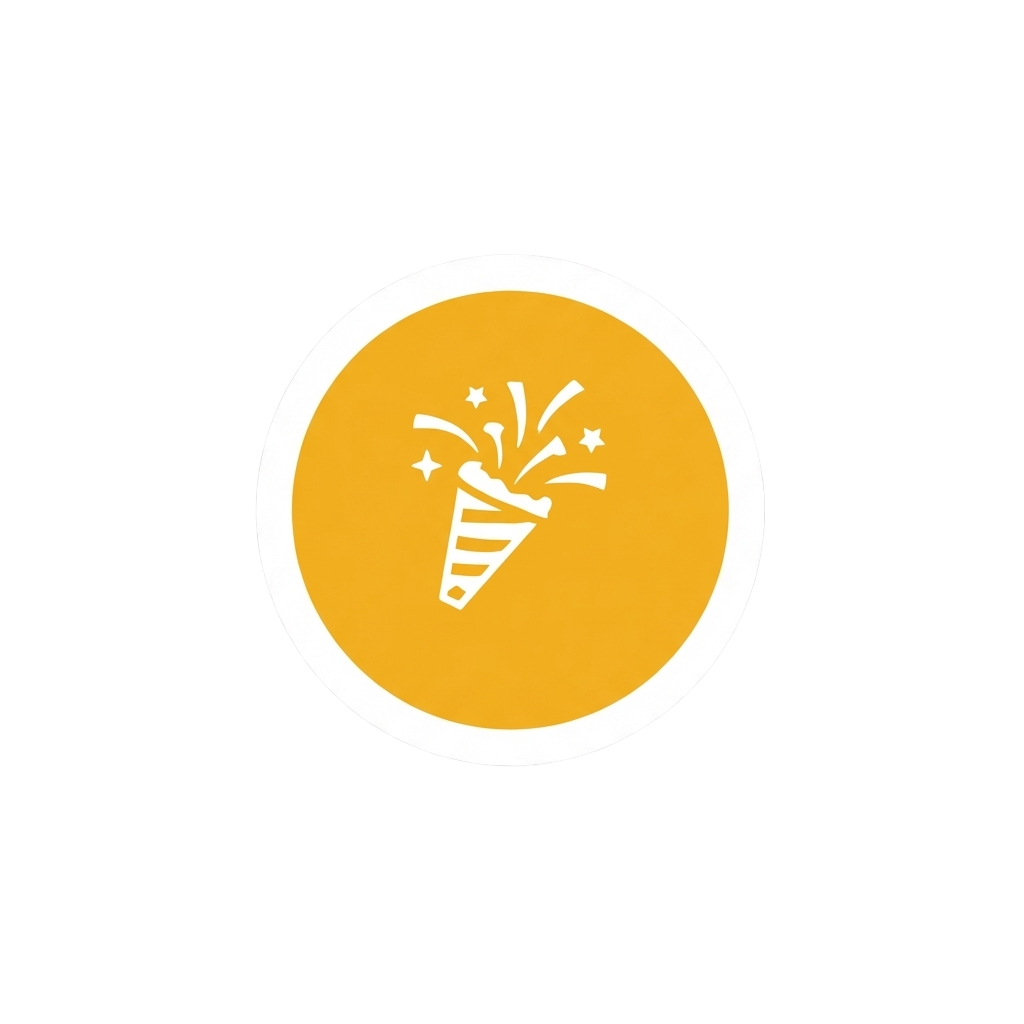
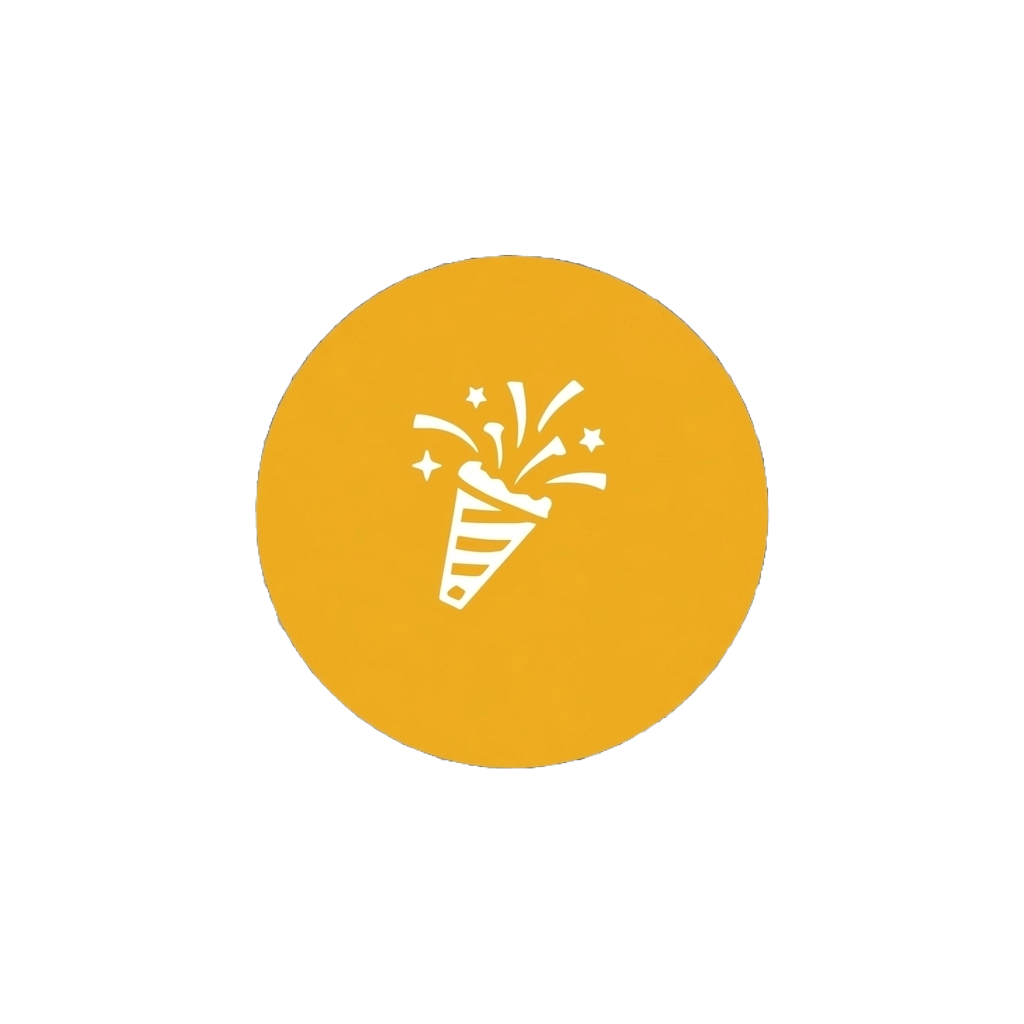
Feat: 이 장소로 향하기 버튼 이 장소로 향하기 버튼을 누르면 길찾기 페이지로 이동 마커 흰색 태두리 삭제 todo가 없을때 AttractionMapSearchView.vue를 로딩할때 내 위치로 설정

Changed region(s): [[0.25, 0.25, 0.75, 0.75]]

diff --git a/src/views/attraction/AttractionMapSearchView.vue b/src/views/attraction/AttractionMapSearchView.vue
@@ -45,6 +45,19 @@
         </KakaoMapCustomOverlay>
 
 
+
+        <!-- Current Location Marker -->
+        <KakaoMapMarker 
+          v-if="userLocation"
+          :lat="userLocation.lat" 
+          :lng="userLocation.lng"
+          :image="{
+            imageSrc: markerCurrent,
+            imageWidth: 40,
+            imageHeight: 40
+          }"
+        />
+
       </KakaoMap>
     </div>
 
@@ -65,6 +78,14 @@
 
 
     </div>
+
+    <!-- Clear Map Button (Bottom Left) -->
+    <!-- Clear Map Button (Bottom Left) -->
+    <button v-if="results.length > 0" class="clear-map-btn" @click="clearMap" title="지도 정리">
+        <svg width="24" height="24" viewBox="0 0 24 24" fill="none" xmlns="http://www.w3.org/2000/svg">
+            <path d="M15.1186 3.00344C15.9329 2.18907 17.2533 2.18907 18.0676 3.00344L20.9964 5.93223C21.8108 6.7466 21.8108 8.06704 20.9964 8.88141L11.558 18.3198C11.5165 18.3614 11.4673 18.3944 11.4132 18.4168L7.87868 19.8814C7.45263 20.058 6.96984 19.8971 6.75736 19.5L6.38699 18.8077L4.69239 20.5023C4.30186 20.8929 3.6687 20.8929 3.27817 20.5023C2.88765 20.1118 2.88765 19.4786 3.27817 19.0881L4.97277 17.3935L4.5 16.5103C4.28751 16.1132 4.45934 15.6179 4.88141 15.4213L6.346 11.8868C6.36845 11.8327 6.40141 11.7835 6.44299 11.7419L15.1186 3.00344ZM16.5932 4.47805L7.91761 13.1537L7.2005 14.8841L9.11579 16.7994L10.8462 16.0823L19.5218 7.40669L16.5932 4.47805Z" fill="#3b82f6"/>
+        </svg>
+    </button>
 
     <!-- Load More Button -->
     <div class="load-more-container" v-if="hasSearched && hasMore && results.length > 0">
@@ -97,11 +118,13 @@
 </template>
 
 <script setup>
-import { ref, onMounted, onUnmounted, watch, computed } from 'vue';
+import { ref, onMounted, onUnmounted, watch, computed, nextTick } from 'vue';
 import { useRoute, useRouter } from 'vue-router';
 import { KakaoMap, KakaoMapCustomOverlay, KakaoMapMarker } from 'vue3-kakao-maps';
 import { attractionApi } from '@/axios/attraction';
 import { usePlanStore } from '@/stores/plan';
+import { useLocationStore } from '@/stores/location';
+import { storeToRefs } from 'pinia';
 import CategoryFilter from '@/components/main/CategoryFilter.vue';
 import PlaceDetailSheet from '@/components/attraction/PlaceDetailSheet.vue';
 
@@ -113,6 +136,7 @@ import markerShopping from '@/assets/markers/marker_shopping.png'
 import markerLeports from '@/assets/markers/marker_leports.png'
 import markerFestival from '@/assets/markers/marker_festival.png'
 import markerCourse from '@/assets/markers/marker_course.png'
+import markerCurrent from '@/assets/markers/marker_current.png'
 
 const props = defineProps({
     existingItems: {
@@ -142,6 +166,8 @@ const emit = defineEmits(['close', 'add-item']);
 const route = useRoute();
 const router = useRouter(); 
 const planStore = usePlanStore();
+const locationStore = useLocationStore();
+const { location: userLocation } = storeToRefs(locationStore);
 
 const searchRadius = ref(1000); // Default 1km
 const selectedCategories = ref([]);
@@ -183,6 +209,22 @@ const fitBoundsToExisting = () => {
   }
 };
 
+const fitBoundsToResults = () => {
+  if (mapInstance.value && results.value.length > 0) {
+    const bounds = new window.kakao.maps.LatLngBounds();
+    results.value.forEach(place => {
+        if (place.latitude && place.longitude) {
+            bounds.extend(new window.kakao.maps.LatLng(Number(place.latitude), Number(place.longitude)));
+        }
+    });
+    // Optional: Include current location in bounds so user sees where they are relative to results
+    if (userLocation.value) {
+        bounds.extend(new window.kakao.maps.LatLng(userLocation.value.lat, userLocation.value.lng));
+    }
+    mapInstance.value.setBounds(bounds);
+  }
+};
+
 const onLoadKakaoMap = (map) => {
   mapInstance.value = map;
   
@@ -199,8 +241,29 @@ const onLoadKakaoMap = (map) => {
   if (existingPlanItems.value.length > 0) {
       fitBoundsToExisting();
   } else {
-      // If no items to fit, trigger initial search at default center
-      handleSearch();
+      // If no items, try to fetch current location and move there
+      locationStore.fetchCurrentLocation().then(async (loc) => {
+          if (map) {
+              const moveLatLon = new window.kakao.maps.LatLng(loc.lat, loc.lng);
+              map.setCenter(moveLatLon);
+              // Also update center ref so search uses it
+              center.value = { lat: loc.lat, lng: loc.lng };
+              
+              await handleSearch(); // Search around new location
+              
+              // Use nextTick to ensure DOM is ready, then fit bounds
+              nextTick(() => {
+                  setTimeout(() => {
+                    console.log("Calling fitBoundsToResults with", results.value.length, "items");
+                    fitBoundsToResults(); 
+                  }, 200); // Slightly longer delay to be safe
+              });
+          }
+      }).catch((err) => {
+          console.error("Location fetch failed:", err);
+          // Fallback if location fails
+          handleSearch();
+      });
   }
 };
 
@@ -232,6 +295,12 @@ watch(searchRadius, () => {
 
 const goBack = () => {
   emit('close');
+};
+
+const clearMap = () => {
+    results.value = [];
+    selectedPlace.value = null;
+    hasSearched.value = false; // Reset search state
 };
 
 const onSelectCategory = (categories) => {
@@ -799,6 +868,37 @@ const toLocalISOString = (date) => {
 .custom-add-btn:hover {
     background: #0081d6;
 }
+
+.clear-map-btn {
+    position: absolute;
+    bottom: 30px;
+    left: 20px;
+    width: 56px;
+    height: 56px;
+    border-radius: 50%;
+    background: white;
+    border: none;
+    box-shadow: 0 4px 12px rgba(0, 0, 0, 0.2);
+    display: flex;
+    align-items: center;
+    justify-content: center;
+    z-index: 100;
+    cursor: pointer;
+    transition: transform 0.2s, background-color 0.2s;
+}
+
+.clear-map-btn:hover {
+    transform: translateY(-2px);
+    background-color: #f9f9f9;
+}
+
+.clear-map-btn:active {
+    transform: scale(0.95);
+    background-color: #f5f5f5;
+}
+
+
+
 
 .modal-overlay {
   position: fixed;

diff --git a/src/components/attraction/PlaceActionButtons.vue b/src/components/attraction/PlaceActionButtons.vue
@@ -1,6 +1,6 @@
 <template>
   <div class="action-buttons">
-    <button class="primary-btn">
+    <button class="primary-btn" @click="handleDirections">
       <svg width="20" height="20" viewBox="0 0 24 24" fill="none" xmlns="http://www.w3.org/2000/svg">
         <path d="M22 2L11 13M22 2L15 22L11 13M11 13L2 9L22 2" stroke="white" stroke-width="2" stroke-linecap="round"
           stroke-linejoin="round" />
@@ -44,6 +44,45 @@ const showThemeModal = ref(false);
 
 const handleAiPlanRequest = () => {
   showThemeModal.value = true;
+};
+
+const handleDirections = () => {
+  if (!props.place) return;
+
+  // Coordinate handling: check for common field names
+  // TourAPI usually uses mapy (lat) and mapx (lng)
+  // Our DB might use latitude/longitude
+  const lat = props.place.latitude || props.place.lat || props.place.mapy;
+  const lng = props.place.longitude || props.place.lng || props.place.mapx;
+  const name = props.place.name || props.place.title || '도착지';
+
+  if (lat && lng) {
+    // Try to get current location for "from" coordinates
+    if (navigator.geolocation) {
+      navigator.geolocation.getCurrentPosition(
+        (position) => {
+          const currentLat = position.coords.latitude;
+          const currentLng = position.coords.longitude;
+          // URL with from (current location) and to (destination)
+          const url = `https://map.kakao.com/link/from/내 위치,${currentLat},${currentLng}/to/${name},${lat},${lng}`;
+          window.open(url, '_blank');
+        },
+        (error) => {
+          console.warn("Location access denied or failed:", error);
+          // Fallback: Use only destination
+          const url = `https://map.kakao.com/link/to/${name},${lat},${lng}`;
+          window.open(url, '_blank');
+        }
+      );
+    } else {
+      // Geolocation not supported, fallback to destination only
+      const url = `https://map.kakao.com/link/to/${name},${lat},${lng}`;
+      window.open(url, '_blank');
+    }
+  } else {
+    console.warn("Place coordinates missing:", props.place);
+    alert("장소 위치 정보를 찾을 수 없습니다.");
+  }
 };
 
 const handleThemeConfirm = ({ theme, startDate, endDate }) => {

diff --git a/src/components/attraction/PlaceDetailContent.vue b/src/components/attraction/PlaceDetailContent.vue
@@ -112,28 +112,19 @@ const onWheel = (e) => {
   /* Fill remaining space below header */
   display: flex;
   flex-direction: column;
-  /* overflow-y: auto; REMOVED for unified scrolling */
+  overflow-y: auto;
   padding-bottom: calc(20px + env(safe-area-inset-bottom));
   padding-top: 20px;
   /* Add space between header and content */
   touch-action: pan-y;
   /* Allow vertical scrolling */
   overscroll-behavior: contain;
+  scrollbar-width: none; /* Firefox */
+  -ms-overflow-style: none; /* IE and Edge */
 }
 
 .bottom-content-wrapper::-webkit-scrollbar {
-  width: 6px;
-  background: transparent;
-}
-
-.bottom-content-wrapper::-webkit-scrollbar-thumb {
-  background-color: transparent;
-  border-radius: 3px;
-}
-
-.bottom-content-wrapper:hover::-webkit-scrollbar-thumb,
-.bottom-content-wrapper:active::-webkit-scrollbar-thumb {
-  background-color: rgba(0, 0, 0, 0.2);
+  display: none;
 }
 
 .image-carousel {
